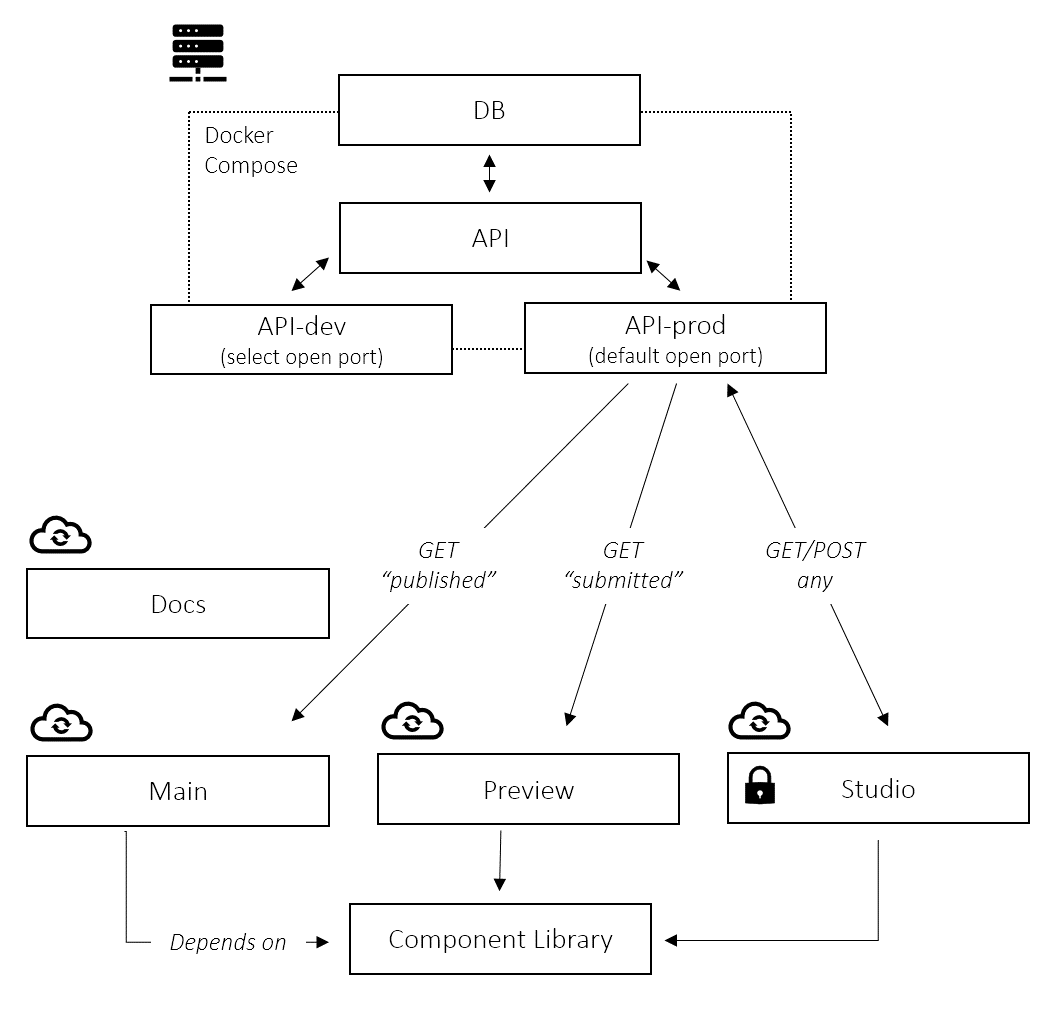
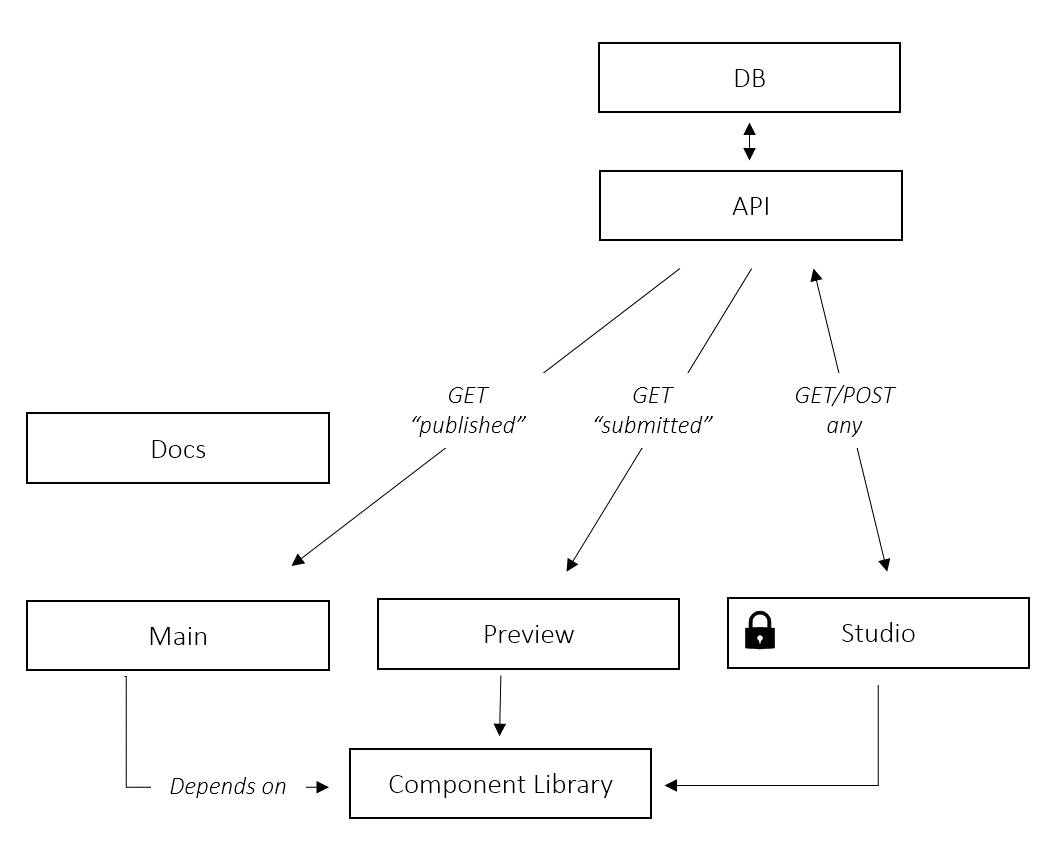
fix: update project architecture page

diff --git a/docs/dev-guide/architecture.md b/docs/dev-guide/architecture.md
@@ -43,11 +43,10 @@ In _Figure 1_, "published" and "submitted" are possible values for the content s
 
 ### API server
 
-_ICJIA Research Hub_'s API server ([GitHub](https://github.com/ICJIA/research-hub-api)) is a Docker Compose stack that provides as a headless content management system (CMS) for _ICJIA Research Hub_ and makes its contents accessible via HTTP calls.
+_ICJIA Research Hub_'s API server ([GitHub](https://github.com/ICJIA/research-hub-api)) provides as a headless content management system (CMS) for _ICJIA Research Hub_ and makes its contents accessible via HTTP calls.
 
 The API server is powered by:
 
-- [Docker](https://www.docker.com/) for containerization;
 - [MongoDB](https://www.mongodb.com/) for _ICJIA Research Hub_ contents database; and
 - [Strapi](https://strapi.io/) for managing authentication and contents as well as handling HTTP calls from clients.
 
